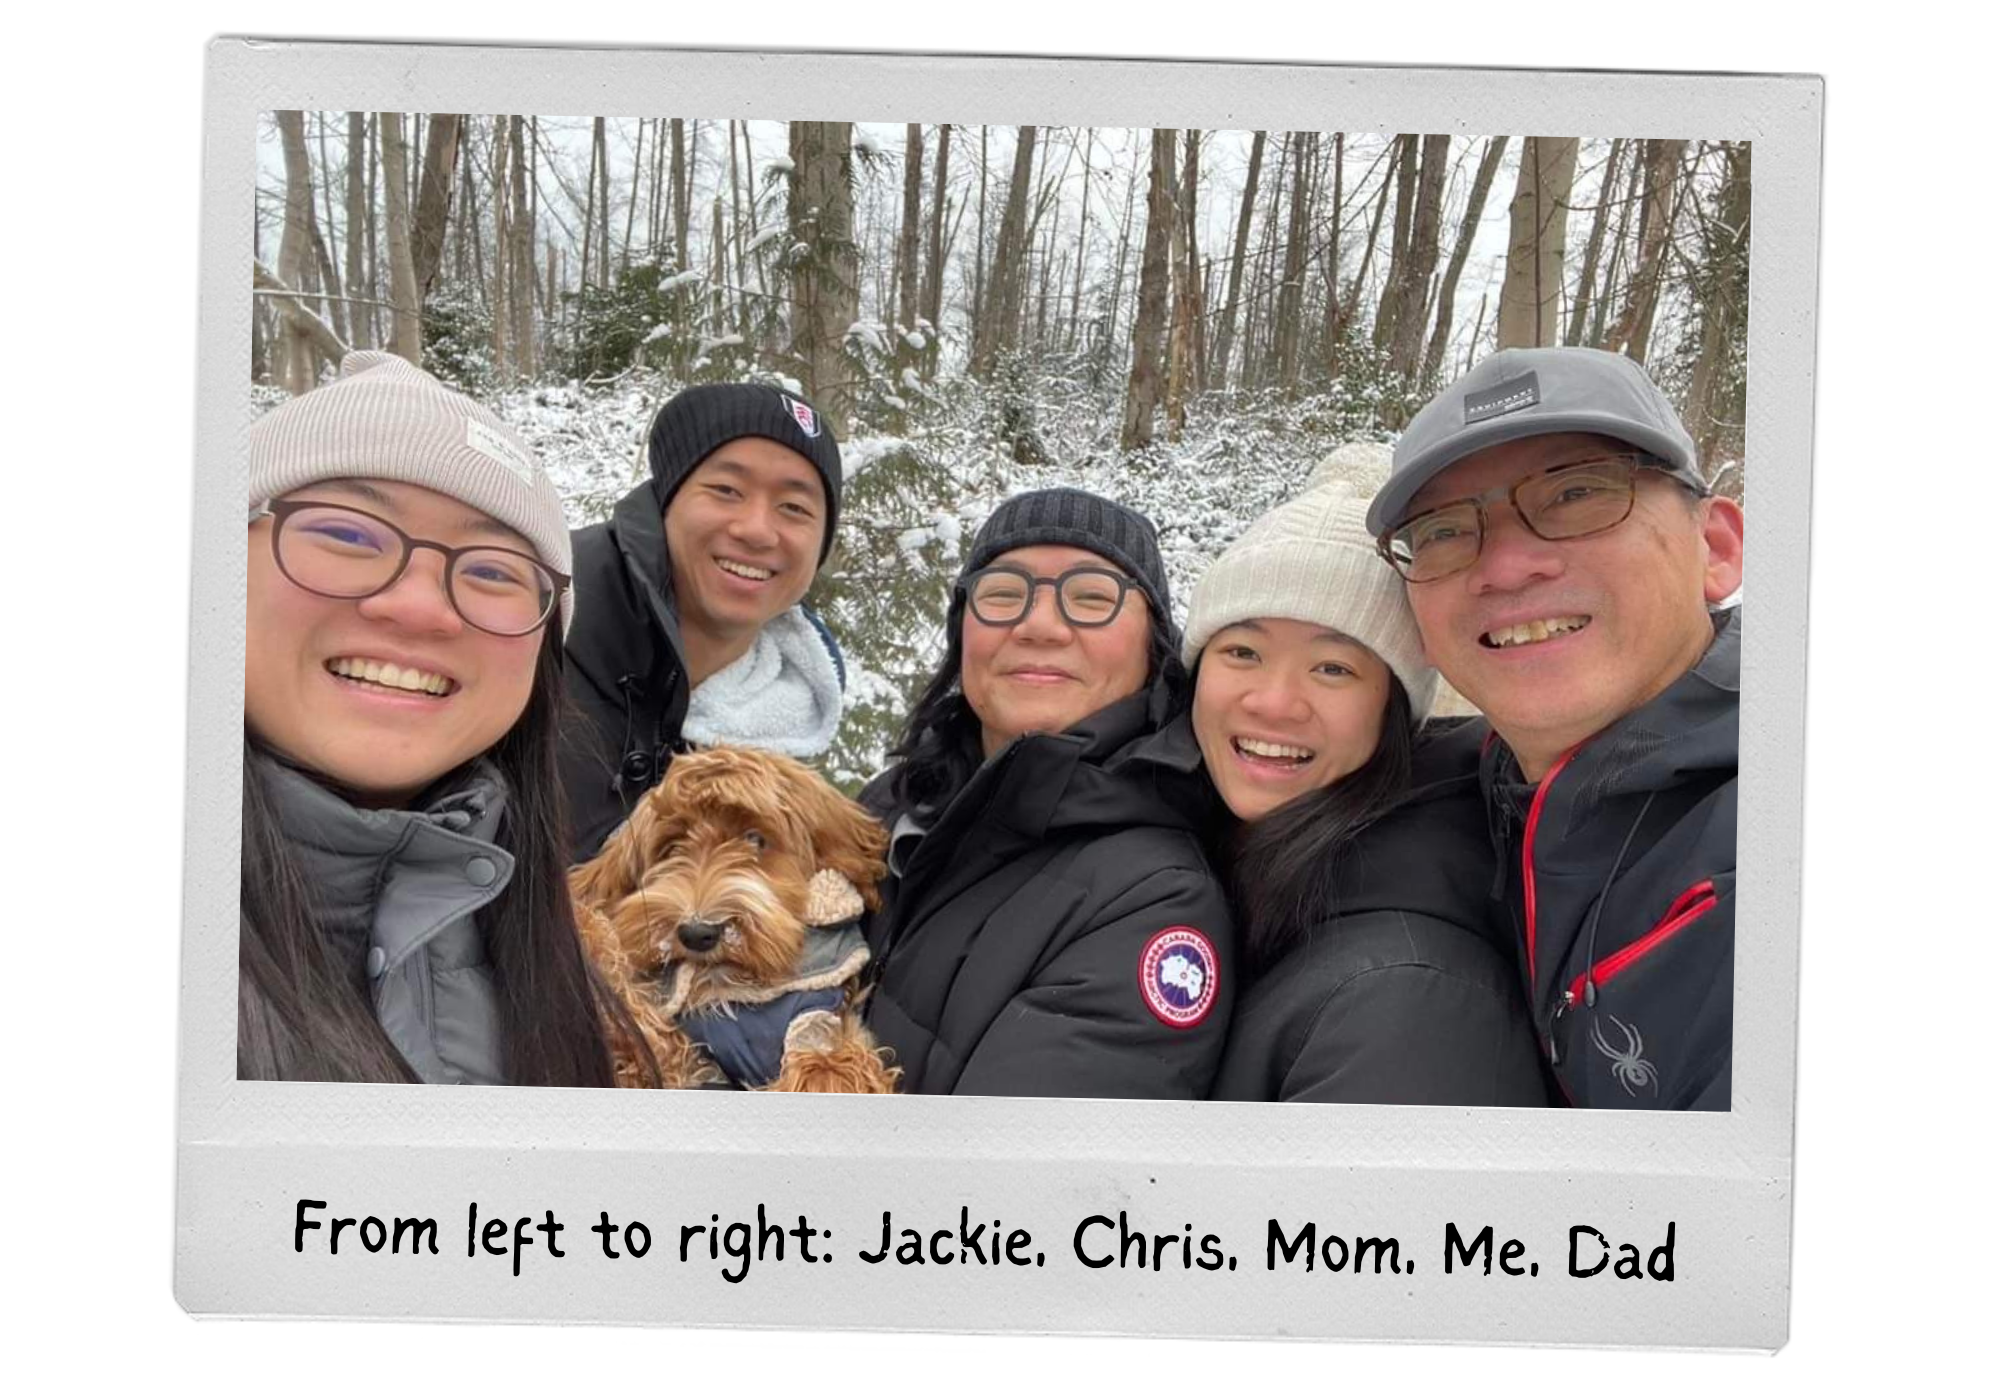
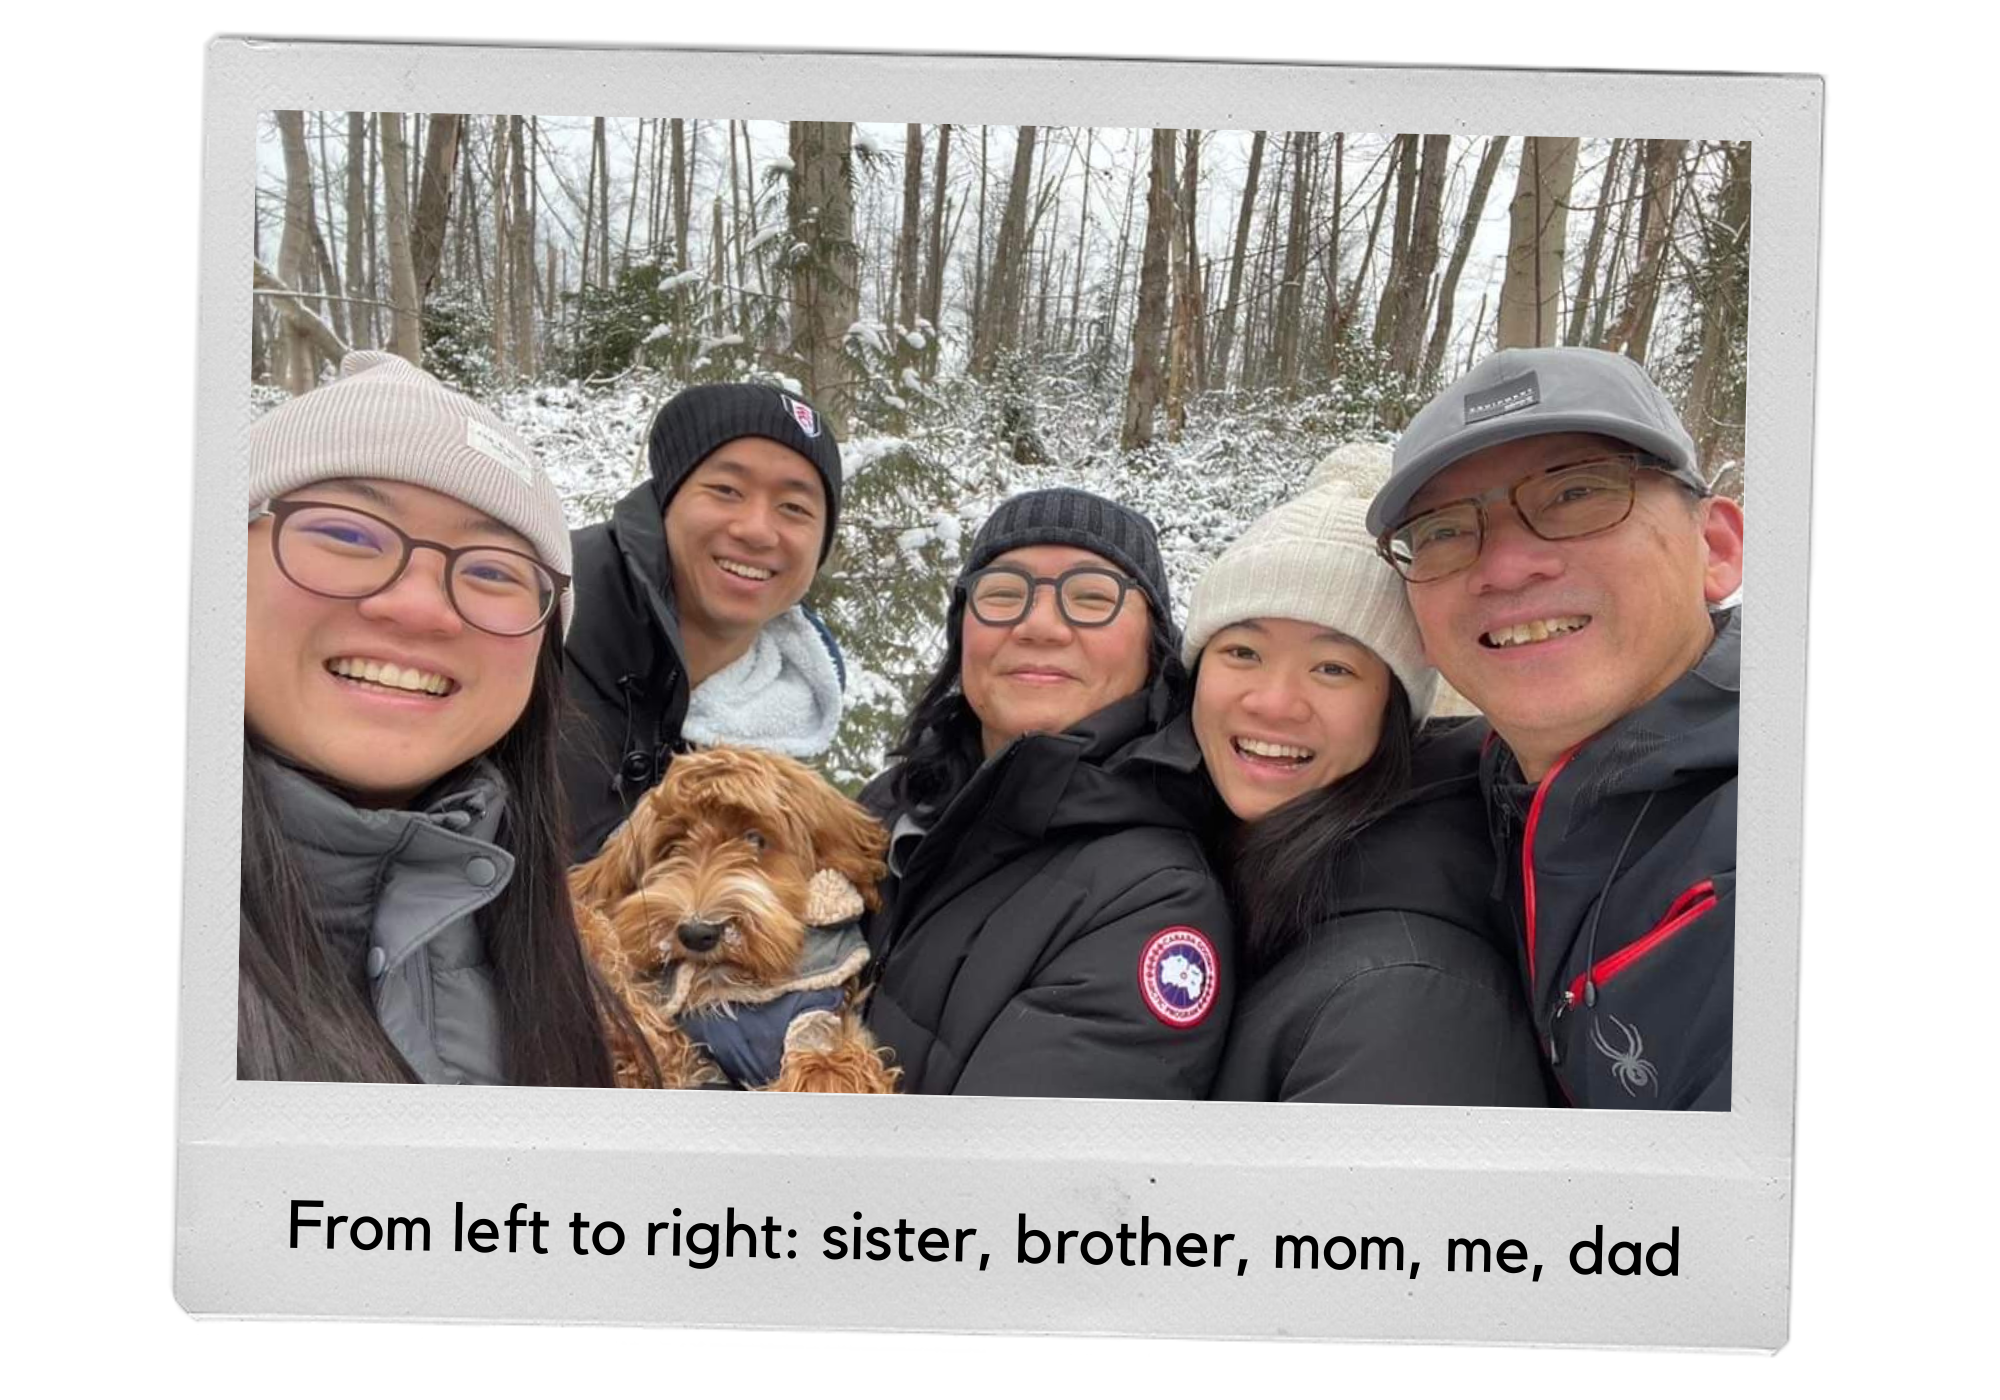
Style Changes

Changed region(s): [[0.124, 0.86, 0.837, 0.9214]]

diff --git a/project.html b/project.html
@@ -1,16 +1,25 @@
 <!DOCTYPE html>
-<style>
-    @import url('https://fonts.googleapis.com/css2?family=Bitter:wght@100;300;400&display=swap');
-</style>
 <html>
     <head>
         <meta charset="utf-8" />
         <meta name="viewport" content="width=device-width, initial-scale=1" />
-        <title>Elizabeth Li Project Website</title>
+        <title>Lizzie Li Project Website</title>
         <link rel="stylesheet" href="https://cdn.jsdelivr.net/npm/bulma@0.9.4/css/bulma.min.css" />
         <link rel="stylesheet" href="style.css">
+        <link rel="stylesheet" href="https://use.typekit.net/bmb3bse.css">
+        
+    <style>
+    @font-face {
+      font-family: 'Adelle Sans';
+      font-style: normal;
+      font-weight: 200 900;
+      font-display: swap;
+      src: url(https://use.typekit.net/bmb3bse.css);
+      unicode-range: U+0000-00FF, U+0131, U+0152-0153, U+02BB-02BC, U+02C6, U+02DA, U+02DC, U+2000-206F, U+2074, U+20AC, U+2122, U+2191, U+2193, U+2212, U+2215, U+FEFF, U+FFFD;
+    }
+    </style>
     </head>
-    <nav class="navbar" role="navigation" aria-label="main navigation">
+    <nav class="navbar" role="navigation" aria-label="main navigation"/>
         <div class="navbar-brand">
           <a class="navbar-item" href="index.html">
             <img src="logo.png">
@@ -20,12 +29,10 @@
             <span aria-hidden="true"></span>
             <span aria-hidden="true"></span>
           </a>
-        </div>
-      
         <div id="navbarBasicExample" class="navbar-menu">
           <div class="navbar-start">
             <a class="navbar-item" <a href="project.html">
-              <h4>Projects</h4>
+              <h4>PROJECTS</h4>
             </a>
               </div>
             </div>
@@ -33,32 +40,27 @@
       </nav>
     <body>
         <div class="section">
-            <div class="container content">
-                <div class="container content center-container flex">
-                    <h3> &#128172 P R O J E C T 1 </h3>
-                </div>
-                <div class="container content">
-                    <p>Pictured below is my family – my parents, Jane and Ricky, and sister Jacqueline live in my hometown on the West Coast while my Brother Chris and I live on the East Coast of the US. Since scattering across the continent, we’ve kept in touch through Facebook Messenger, sending each other anything and everything, including updates about our lives and a lot of food pics.
-                   
-                    </p>
-                    <p>
-                        <img src="famphoto.png" alt="an bar chart that doesn't actually say anything" />
-                    </p>
-                <p>
-                 Also pictured is Gordon, the spoiled labradoodle my parents brought home in September 2021. Since then, I've noticed a surge in activity in our group chat, especially among the West Coasters living at home with Gordon (Mom, Dad, and sister Jacqueline). I’ve suspected these changes for a while and wanted to back up my observations with data. So, with everyone's permission, I downloaded and analyzed a year's worth of our group chat messages.
+            <h1> WHO'S THE MOST <s>ANNOYING</s> ACTIVE IN MY FAMILY GROUP CHAT? </h1>
+                <p>Meet the Li family – my mom, dad, and sister live in my hometown on the West Coast while my brother and I live on the East Coast of the US. Since scattering across the &#x1F30E;, we keep in touch through Facebook Messenger, sending each other anything and everything, including updates about our lives and a lot of food pics.
                 </p>
                 <p>
-                  I first looked for a spike in messages, photos, and videos. This chart shows a clear upward trajectory following Gordon’s arrival across all categories. While the increases do not show causation, as there are other potential factors and life events contributing to the increases, it is evident that the group chat indeed has been more active since Gordon was brought home in September 2021. 
-                 </p>
+                  <img src="famphoto.png" alt="an bar chart that doesn't actually say anything" />
+                </p>
+                <p>
+                 Also pictured is Gordon, the labradoodle my parents brought home in September 2021. Since then, I've noticed a surge in activity in our group chat. My phone has been inundated with puppy content sent by the &#x1F60D; West Coasters living at home with Gordon (mom, dad, and sister). I wanted to back up my observations with data, so with everyone's permission, I downloaded and analyzed a year's worth of Facebook group chat messages.
+                </p>
+                <p>
+                  I first looked for a spike in messages, photos, and videos in the months after Gordon joined the family. The chart below shows a clear upward trajectory across all categories. While the increases cannot show causation, as other life events potentially factor in, it is evident that the group chat has indeed been more active since Gordon was brought home in September 2021. 
+                </p>
             <div class="container content">
-                <iframe title="Li Family Group Chat Engagement" aria-label="Interactive line chart" id="datawrapper-chart-G4nnO" src="https://datawrapper.dwcdn.net/G4nnO/1/" scrolling="no" frameborder="0" style="width: 0; min-width: 100% !important; border: none;" height="433"></iframe><script type="text/javascript">!function(){"use strict";window.addEventListener("message",(function(e){if(void 0!==e.data["datawrapper-height"]){var t=document.querySelectorAll("iframe");for(var a in e.data["datawrapper-height"])for(var r=0;r<t.length;r++){if(t[r].contentWindow===e.source)t[r].style.height=e.data["datawrapper-height"][a]+"px"}}}))}();</script>
-                
-              </div>
+              <iframe title="Group Chat Activity by Month" aria-label="Interactive line chart" id="datawrapper-chart-G4nnO" src="https://datawrapper.dwcdn.net/G4nnO/10/" scrolling="no" frameborder="0" style="width: 0; min-width: 100% !important; border: none;" height="461"></iframe><script type="text/javascript">!function(){"use strict";window.addEventListener("message",(function(e){if(void 0!==e.data["datawrapper-height"]){var t=document.querySelectorAll("iframe");for(var a in e.data["datawrapper-height"])for(var r=0;r<t.length;r++){if(t[r].contentWindow===e.source)t[r].style.height=e.data["datawrapper-height"][a]+"px"}}}))}();
+              </script>
             <div class="container content">
               <p>
-              <br>I then broke down who was sending what, and also looked into who was sending messages that specifically mentioned ‘Gordon’ in the content. Since I was unable to tag photos that include Gordon and include messages that allude to him without mentioning this name, I acknowledge this process wasn’t perfect. However, my analysis supports that the West Coast family members are more active participants than the East Coasters.
+              Curious about which family members are the most <s>annoying</s> active, I then broke down who was sending what, also looking into which family member was sending messages that specifically mentioned ‘Gordon’ in the content. Since I was unable to tag photos and videos depicting Gordon and include messages that allude to him without mentioning this name, I acknowledge this process wasn’t perfect. However, the data supports that the West Coast family members, particularly my dad, are more active participants than the East Coasters. It also supports another hypothesis of mine that my dad is the most dog-obsessed of us all. 
                </p>
-              <iframe title="Family Member Engagement" aria-label="Multiple Pies" id="datawrapper-chart-7yQWk" src="https://datawrapper.dwcdn.net/7yQWk/1/" scrolling="no" frameborder="0" style="width: 0; min-width: 100% !important; border: none;" height="580"></iframe><script type="text/javascript">!function(){"use strict";window.addEventListener("message",(function(e){if(void 0!==e.data["datawrapper-height"]){var t=document.querySelectorAll("iframe");for(var a in e.data["datawrapper-height"])for(var r=0;r<t.length;r++){if(t[r].contentWindow===e.source)t[r].style.height=e.data["datawrapper-height"][a]+"px"}}}))}();</script>
+               <iframe title="Activity by Family Member" aria-label="Multiple Pies" id="datawrapper-chart-7yQWk" src="https://datawrapper.dwcdn.net/7yQWk/3/" scrolling="no" frameborder="0" style="width: 0; min-width: 100% !important; border: none;" height="609"></iframe><script type="text/javascript">!function(){"use strict";window.addEventListener("message",(function(e){if(void 0!==e.data["datawrapper-height"]){var t=document.querySelectorAll("iframe");for(var a in e.data["datawrapper-height"])for(var r=0;r<t.length;r++){if(t[r].contentWindow===e.source)t[r].style.height=e.data["datawrapper-height"][a]+"px"}}}))}();
+               </script> 
         </div>
     </body>
 </html>

diff --git a/index.html b/index.html
@@ -1,16 +1,25 @@
 <!DOCTYPE html>
-<style>
-    @import url('https://fonts.googleapis.com/css2?family=Bitter:wght@100;300;400&display=swap');
-</style>
 <html>
     <head>
         <meta charset="utf-8" />
         <meta name="viewport" content="width=device-width, initial-scale=1" />
-        <title>Elizabeth Li Project Website</title>
+        <title>Lizzie Li Project Website</title>
         <link rel="stylesheet" href="https://cdn.jsdelivr.net/npm/bulma@0.9.4/css/bulma.min.css" />
         <link rel="stylesheet" href="style.css">
+        <link rel="stylesheet" href="https://use.typekit.net/bmb3bse.css">
+        
+    <style>
+    @font-face {
+      font-family: 'Adelle Sans';
+      font-style: normal;
+      font-weight: 200 900;
+      font-display: swap;
+      src: url(https://use.typekit.net/bmb3bse.css);
+      unicode-range: U+0000-00FF, U+0131, U+0152-0153, U+02BB-02BC, U+02C6, U+02DA, U+02DC, U+2000-206F, U+2074, U+20AC, U+2122, U+2191, U+2193, U+2212, U+2215, U+FEFF, U+FFFD;
+    }
+    </style>
     </head>
-    <nav class="navbar" role="navigation" aria-label="main navigation">
+    <nav class="navbar" role="navigation" aria-label="main navigation"/>
         <div class="navbar-brand">
           <a class="navbar-item" href="index.html">
             <img src="logo.png">
@@ -20,35 +29,29 @@
             <span aria-hidden="true"></span>
             <span aria-hidden="true"></span>
           </a>
-        </div>
-      
         <div id="navbarBasicExample" class="navbar-menu">
           <div class="navbar-start">
             <a class="navbar-item" <a href="project.html">
-              <h4>Projects</h4>
+              <h4>PROJECTS</h4>
             </a>
               </div>
             </div>
           </div>
       </nav>
-    <body>
-        <div class="section">
-            <div class="container content">
-                <div class="container content center-container flex">
-                    <h1> Hi, I'm Lizzie! &#128075; </h1>
-                </div>
-                <div class="container content">
-                    <div class="flex center-container">
-                        <img src="memoji.png" style='width:100%;' border="0" alt="Null""/>
-                    </div>
-                </div>
-                <p>
-                    Welcome to my Lede 2022 site! 
-                </p>
-                <p>
-                    I'm a grad student @Columbia working towards my MA in Human Rights in Technology. My research focus is on sociological aspects of privacy, specifically how social media users negotiate privacy through self-disclosure. In this site, you'll find some projects I've been working on over the summer...some are related to my research, while others are totally random - HA!
-                </p>
+<body>
+  <div class="section">
+      <h1> HI, I'M LIZZIE! &#128075; </h1>
+      <div class="flex center-container">
+          <img src="memoji.png" style='width:100%;' border="0" alt="Null"" aria-setsize="responsive"/>     
+      </div>
+      <h2>
+        Welcome to my Lede 2022 site! 
+      </h2>
+          <p>
+            I'm a grad student at Columbia University working towards my MA in Human Rights in Technology. My research focuses on social and human aspects of privacy, specifically how social media users negotiate privacy given the norms and context informed by lived experiences. On my projects page, you'll find some data viz projects I've been working on over the summer - some are related to my research, while others are totally random - HA!
+          </p>
             </div>
         </div>
     </body>
+
 </html>

diff --git a/style.css b/style.css
@@ -1,8 +1,8 @@
 html, body {
     background: linear-gradient(-45deg, #eef1fa, #e1ecfb, #ffffff, #e8eef4);
-	background-size: 400% 400%;
 	animation: gradient 15s ease infinite;
-	height: 300vh;
+	height: fit-content;
+    }
 }
 
 @keyframes gradient {
@@ -20,6 +20,7 @@ html, body {
 .center-container {
     align-items: center;
     justify-content: center;
+    color:rgb(175, 178, 192)
 }
 
 .flex {
@@ -49,60 +50,44 @@ img {
     background-size: cover;
 }
 
-.plot-holder {
-    margin-bottom: 2em;
+p {
+    margin: 1.5rem 0;
+    font-size: 18px;
+    line-height: 1.7;
+    font-family: adelle-sans, sans-serif;
+    text-align:left
 }
 
-.plot-holder .caption {
-    color: #333;
-    text-align: right;
-    font-size: 0.75em;
+h1 {
+    font-size: 60px;
+    font-family: gambado-sans, sans-serif;
+    line-height: 1.1;
+    margin: 0 auto;
+    font-weight: 300;
+    margin-top: 100px;
+    text-align: center
 }
 
-.plot-holder h3 {
-    font-size: 2em;
+h2 {
+    font-size: 30px;
+    font-family: adelle-sans, sans-serif;
+    line-height: 1.1;
+    color:#aab4c3
+    margin: 0 auto;
+    font-weight: 300;
+    margin-top: 100px;
+    text-align: center
 }
-
-.plot-holder .subtitle {
-    font-weight: bold;
-}
-
-.content h1 {
-    font-size: 3em;
-    text-align: center;
-    font-family: 'Bitter', serif;
-}
-
-.content h3 {
-    font-size: 2em;
-    text-align: center;
-    font-family: 'Bitter', serif;
-}
-
-.content h4 {
-    font-size: 0.2em;
-    text-align: center;
-    font-family: 'Bitter', serif;
-}
-
-
-.content p {
-    font-size: 1.4em;
-    text-align: left;
-    font-family: 'Bitter', serif;;
-}
-
-.footer {
-    background: rgb(204, 226, 249);
-  }
-
 
 .navbar-item {
-    font-size: 1em;
-    font-family: 'Bitter', serif;;
+    font-size: 20px;
+    font-family: gambado-sans, sans-serif;
+    font-weight: 800;
+    font-style: normal;
+    font-style: normal;
+    color: #9cadc0;
     background-color: #ffffff;
-    color: #515151;
-    justify-items:center
+    justify-items:center;
   }
 
 
